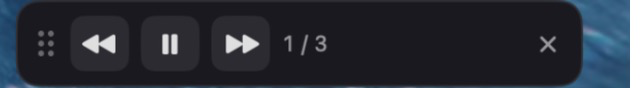
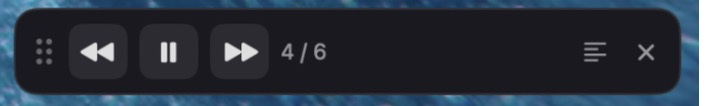
Fresh README pictures: new bar menu, reading bar, and the Read Aloud window

diff --git a/README.md b/README.md
@@ -19,6 +19,8 @@ Aloud with Hark**.
 |---|---|---|
 | ![Idle bar](docs/bar-idle.png) | ![Bar menu](docs/bar-menu.png) | ![Bar while reading](docs/bar-reading.png) |
 
+![Read Aloud window highlighting the sentence being read](docs/read-aloud-window.png)
+
 ## Features
 
 - **Two-sided transcripts.** "Me" and "Them" are recorded as separate tracks, so
